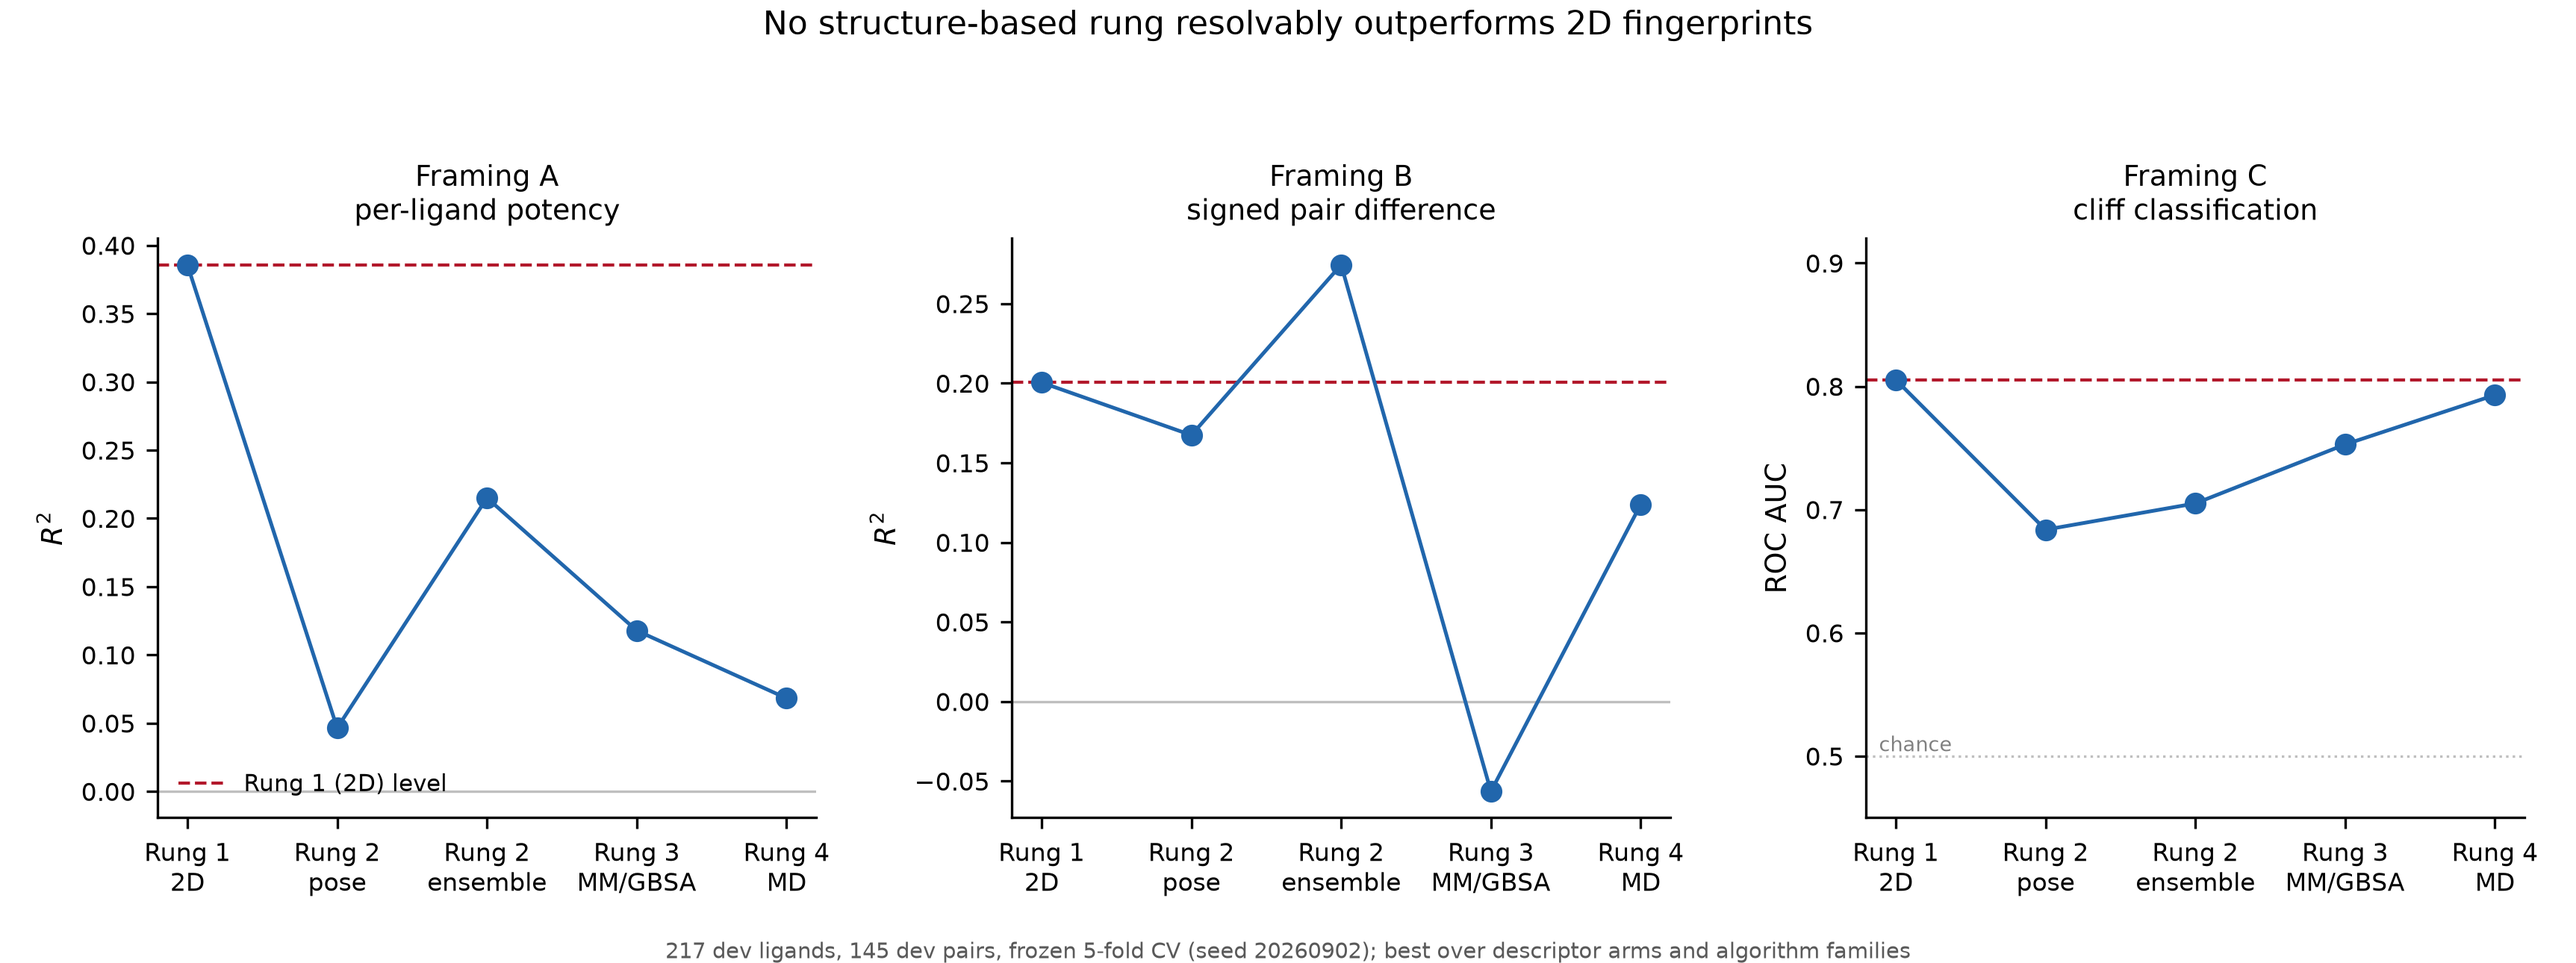
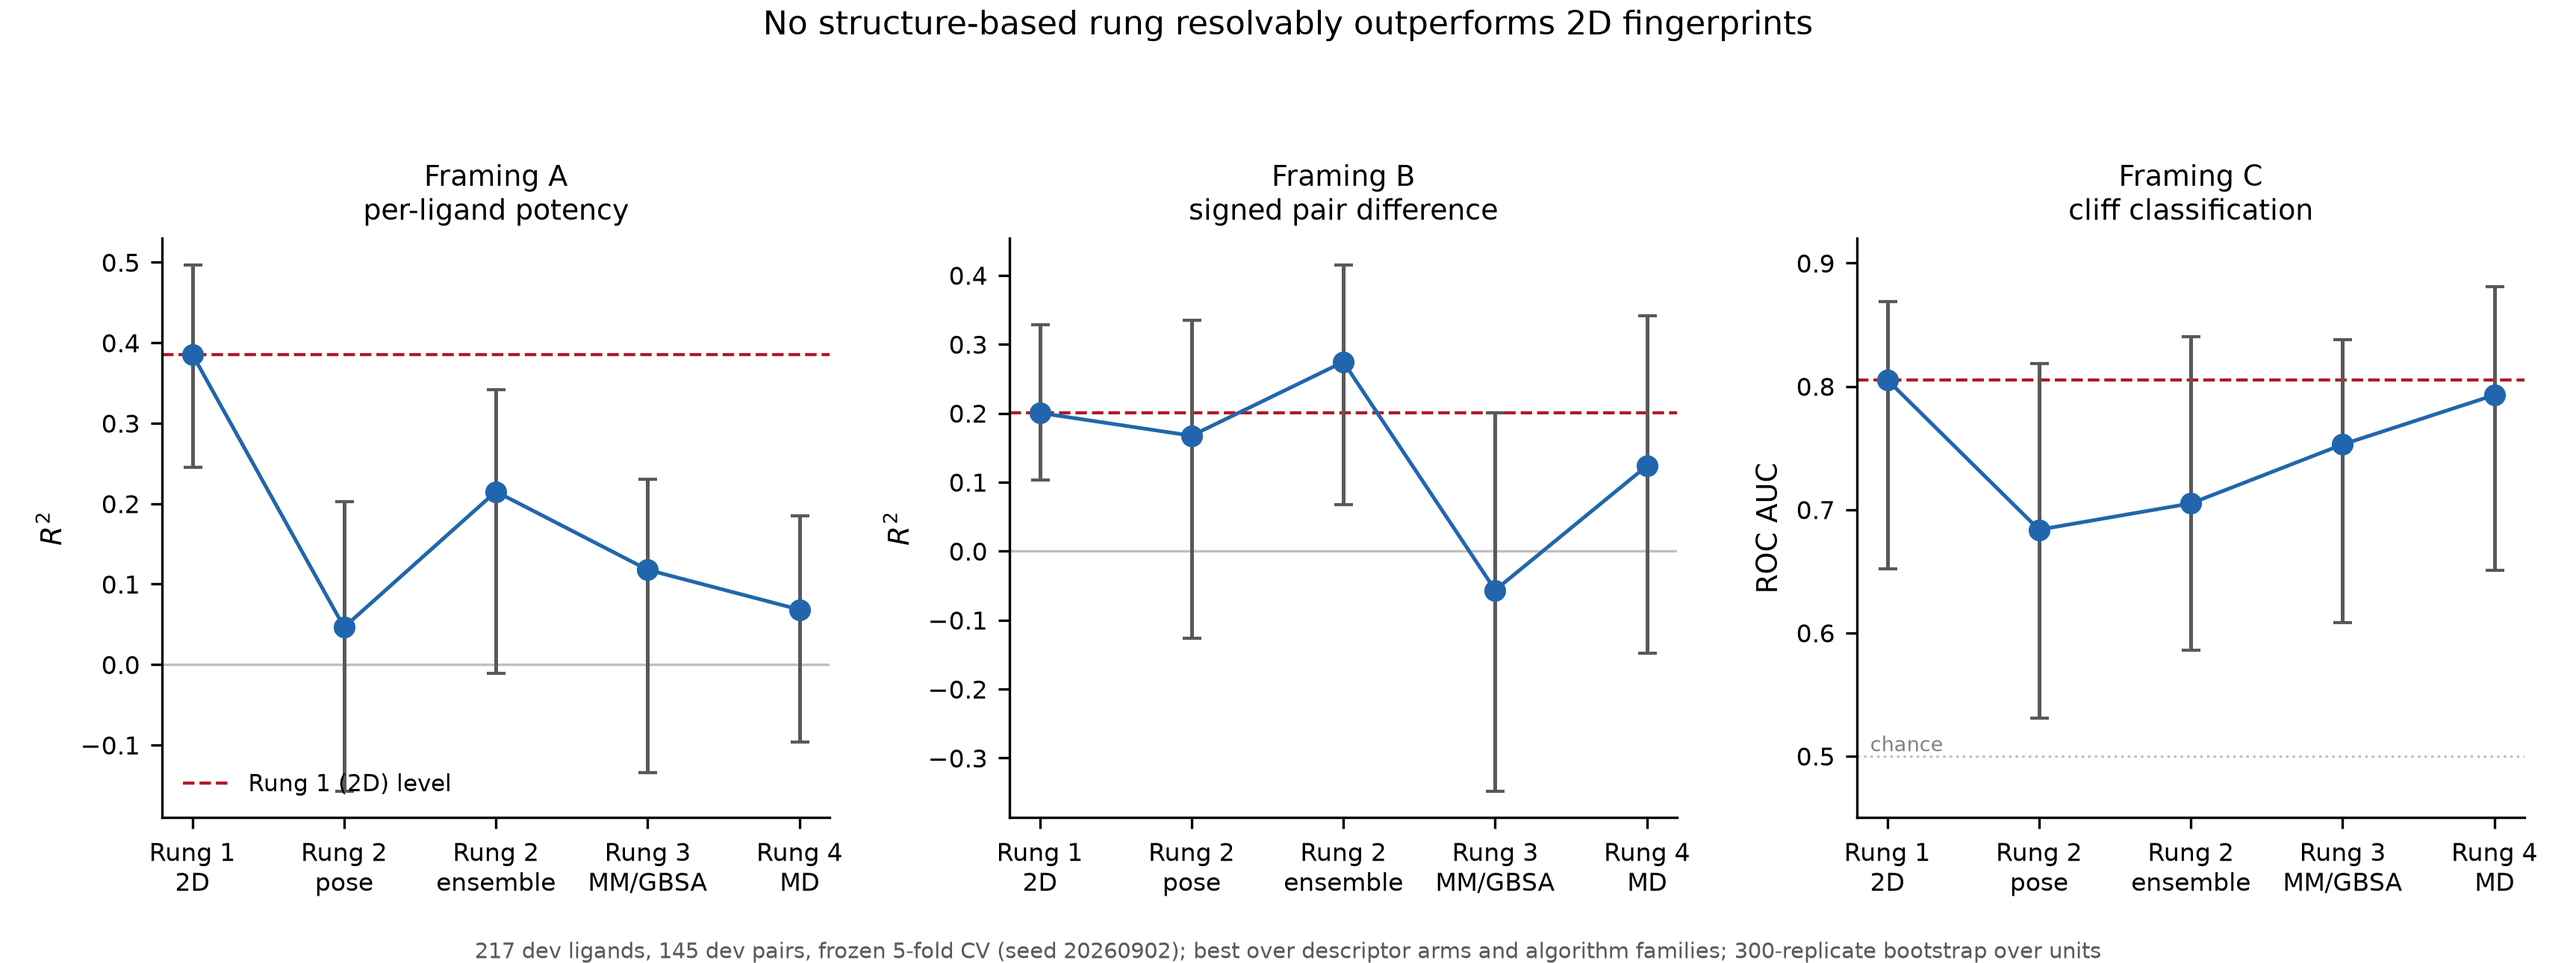
Ladder intervals: every structure-based rung crosses the 2D level on every framing
The 300-replicate bootstrap finished after 11 hours; each rung now carries an
interval computed the same way, which is what the figure was always for.

  framing A   rung 1 [+0.245, +0.497]   rung 2 ens [-0.011, +0.342]   rung 4 [-0.096, +0.185]
  framing B   rung 1 [+0.104, +0.329]   rung 2 ens [+0.068, +0.415]   rung 4 [-0.147, +0.342]
  framing C   rung 1 [+0.652, +0.869]   rung 2 ens [+0.586, +0.840]   rung 4 [+0.651, +0.881]

They sharpen the claim in both directions. On framing A rung 1 is the only rung
clearly above zero. On framing B two rungs exclude zero, 2D and the ensemble pose
geometry, while pose geometry on a single receptor, MM/GBSA and MD all contain it.
On framing C every rung is well above chance and every interval overlaps every
other. So the result is not that structure predicts nothing -- on cliff
classification it plainly does -- but that no structure-based rung is resolvably
better than a fingerprint on any endpoint. Every structure-based interval crosses
the rung-1 level.

The width is the other half of the message: these bars are what a 0.30 resolution
looks like, and they are why the ladder cannot be read as an ordering.

diff --git a/manuscript/sections/03_results.tex b/manuscript/sections/03_results.tex
@@ -78,8 +78,17 @@
   an easier subset.}
 
 \TODO{State plainly that on \framingB{} the ensemble rung 2 is numerically above
-  rung 1 ($+0.274$ vs $+0.200$) and that stage 15 showed the difference is not
-  resolvable. Do not write that 2D wins everything.}
+  rung 1 ($+0.274$ vs $+0.200$) and that the difference is not resolvable. Do not
+  write that 2D wins everything.}
+\NOTE{What the intervals add, and it is worth writing out. On \framingA{} rung 1
+  $[+0.245,+0.497]$ is the only rung clearly above zero; rung 2 ensemble just
+  touches it at $[-0.011,+0.342]$ and rung 4 contains it at $[-0.096,+0.185]$. On
+  \framingB{} two rungs exclude zero, rung 1 $[+0.104,+0.329]$ and rung 2 ensemble
+  $[+0.068,+0.415]$, while pose geometry, MM/GBSA and MD all contain it. On
+  \framingC{} every rung is above chance and every interval overlaps every other.
+  So the claim is not that structure fails to predict anything -- on \framingC{} it
+  plainly does -- but that no structure-based rung is resolvably better than a
+  fingerprint anywhere.}
 
 \subsection{Rung 4 against a matched 2D baseline}
 \TODO{Gaps and intervals, 300-replicate bootstrap: \framingA{} $-0.330$,
